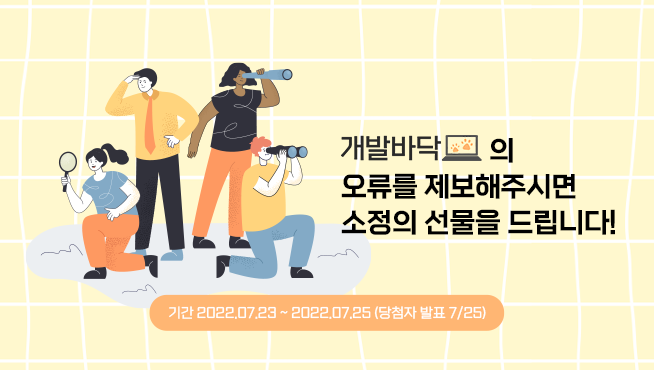
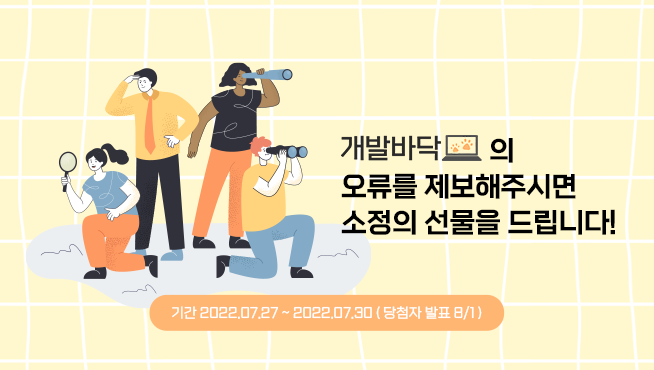
[Update] 캐러셀 링크 추가

Changed region(s): [[0.2446, 0.8324, 0.7645, 0.8622]]

diff --git a/src/components/Carousel.js b/src/components/Carousel.js
@@ -51,7 +51,10 @@ const Carousel = () => {
           <img src={isMobile ? bannerMobile   : banner} alt="" />
         </div>
         <div>
+          <a href="https://docs.google.com/forms/d/1LIU4LaYTaw1UWRPkThKzrF-jJ_1y3U_oj7OwVDOYjII/viewform?edit_requested=true" target="_black">
           <img src={isMobile ?  bannerMobileGift : banner_gift} alt="" />
+          </a>
+          
         </div>
       </Slider>
     </Wrap>
